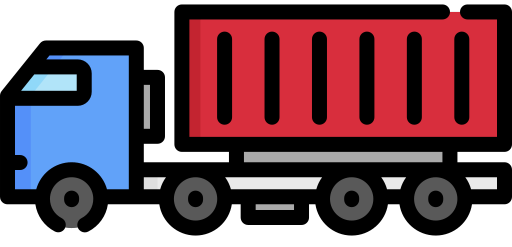
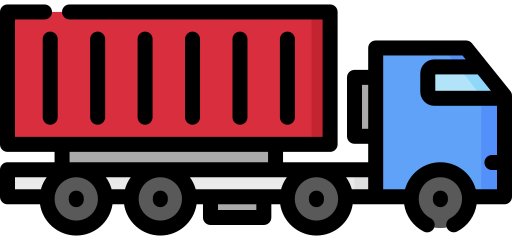
update

diff --git a/Interface Testing/Interface Testing.cpp b/Interface Testing/Interface Testing.cpp
@@ -64,27 +64,33 @@ CVEHICLE::CVEHICLE(int x, int y, int mode) {
     object.scale(0.3, 0.3);
 }
 CTRUCK::CTRUCK(int x, int y, int mode) : CVEHICLE(x, y, mode) {
-    vehicle.loadFromFile("Resource/truck.png");
+    if (x > 0) vehicle.loadFromFile("Resource/Rtruck.png");
+    else vehicle.loadFromFile("Resource/truck.png");
     object.setTexture(vehicle);
 }
 void CTRUCK::Move(bool reverse) {
     if (isStop) return;
-    srand(time(NULL));
     object.move((reverse ? -1 : 1) * (speed + 3) / 50.0, 0);
-    if (object.getPosition().x >= 1500) {
+    if (object.getPosition().x >= 1500 && !reverse) {
         object.setPosition(-350, object.getPosition().y);
+    }
+    if (object.getPosition().x <= -200 && reverse) {
+        object.setPosition(1500 + 350, object.getPosition().y);
     }
 }
 CCAR::CCAR(int x, int y, int mode) : CVEHICLE(x, y, mode) {
-    vehicle.loadFromFile("Resource/car.png");
+    if (x > 0) vehicle.loadFromFile("Resource/Rcar.png");
+    else vehicle.loadFromFile("Resource/car.png");
     object.setTexture(vehicle);
 }
 void CCAR::Move(bool reverse) {
     if (isStop) return;
-    srand(time(NULL));
-    object.move((reverse ? -1 : 1) * (speed + 5 + 3) / 50.0, 0);
-    if (object.getPosition().x >= 1500) {
+    object.move((reverse ? -1 : 1) * (speed + 3) / 50.0, 0);
+    if (object.getPosition().x >= 1500 && !reverse) {
         object.setPosition(-350, object.getPosition().y);
+    }
+    if (object.getPosition().x <= -200 && reverse) {
+        object.setPosition(1500 + 350, object.getPosition().y);
     }
 }
 
@@ -180,7 +186,9 @@ LINE::LINE(int y, int direction, int mode) : light(mode) {
         int num = mode + 3;
         CVEHICLE* car = NULL;
         while (num > 0) {
-            car = new CCAR(num*(-250), y, mode);
+            int type = rand() % 2;
+            if (type) car = new CCAR(num * (-250), y, mode);
+            else car = new CTRUCK(num * (-250), y, mode);
             list.push_back(car);
             num--;
         }
@@ -188,6 +196,16 @@ LINE::LINE(int y, int direction, int mode) : light(mode) {
         light.setPosition(WIDTH - 120, y - 30);
     }
     else {
+        list.clear();
+        int num = mode + 3;
+        CVEHICLE* car = NULL;
+        while (num > 0) {
+            int type = rand() % 2;
+            if (type) car = new CCAR(1500 + num * 250, y, mode);
+            else car = new CTRUCK(1500 + num * 250, y, mode);
+            list.push_back(car);
+            num--;
+        }
         light.setPosition(-50, y - 30);
     }
 }
@@ -217,8 +235,9 @@ void LINE::draw(sf::RenderWindow& window) {
 
 int main()
 {
+    srand(time(NULL));
     RenderWindow window(VideoMode(1500, 800), "Crossing Road Game!");
-    LINE line(50, 1, 3);
+    LINE line(50, 1, 1), line2(300, 2, 3);
     clock_t start, end;
     start = clock();
     end = clock();
@@ -231,9 +250,12 @@ int main()
             line.getLight().changeLight();
             start = clock();
         }
-
+        if ((end - start) / CLOCKS_PER_SEC >= line2.getLight().getTime()) {
+            line2.getLight().changeLight();
+            start = clock();
+        }
         line.draw(window);
-
+        line2.draw(window);
         window.display();
     }
 

diff --git a/CS202 - Project/CVEHICLE.cpp b/CS202 - Project/CVEHICLE.cpp
@@ -10,40 +10,49 @@
 using namespace std;
 using namespace sf;
 
+
 void CVEHICLE::stop() {
-	isStop = true;
+    isStop = true;
 }
 void CVEHICLE::resume() {
-	isStop = false;
+    isStop = false;
 }
 Sprite CVEHICLE::getObject() {
-	return object;
+    return object;
 }
 CVEHICLE::CVEHICLE(int x, int y, int mode) {
-	speed = (mode == 1 ? 5 : (mode == 2 ? 7 : 10));
-	isStop = 1;
-	object.setPosition(x, y);
-	object.scale(0.3, 0.3);
+    speed = (mode == 1 ? 5 : (mode == 2 ? 7 : 10));
+    isStop = 1;
+    object.setPosition(x, y);
+    object.scale(0.3, 0.3);
 }
 CTRUCK::CTRUCK(int x, int y, int mode) : CVEHICLE(x, y, mode) {
-	vehicle.loadFromFile("Resource/truck.png");
-	object.setTexture(vehicle);
-	if (object.getPosition().x >= 1500) {
-		object.setPosition(-200, object.getPosition().y);
-	}
+    if (x > 0) vehicle.loadFromFile("Resource/Rtruck.png");
+    else vehicle.loadFromFile("Resource/truck.png");
+    object.setTexture(vehicle);
 }
 void CTRUCK::Move(bool reverse) {
-	if (isStop) return;
-	object.move((reverse ? -1 : 1) * (speed / 50.0), 0);
+    if (isStop) return;
+    object.move((reverse ? -1 : 1) * (speed + 3) / 50.0, 0);
+    if (object.getPosition().x >= 1500 && !reverse) {
+        object.setPosition(-350, object.getPosition().y);
+    }
+    if (object.getPosition().x <= -200 && reverse) {
+        object.setPosition(1500 + 350, object.getPosition().y);
+    }
 }
 CCAR::CCAR(int x, int y, int mode) : CVEHICLE(x, y, mode) {
-	vehicle.loadFromFile("Resource/car.png");
-	object.setTexture(vehicle);
-	if (object.getPosition().x >= 1500) {
-		object.setPosition(-200, object.getPosition().y);
-	}
+    if (x > 0) vehicle.loadFromFile("Resource/Rcar.png");
+    else vehicle.loadFromFile("Resource/car.png");
+    object.setTexture(vehicle);
 }
 void CCAR::Move(bool reverse) {
-	if (isStop) return;
-	object.move((reverse ? -1 : 1) * ((speed + 3) / 50.0), 0);
+    if (isStop) return;
+    object.move((reverse ? -1 : 1) * (speed + 3) / 50.0, 0);
+    if (object.getPosition().x >= 1500 && !reverse) {
+        object.setPosition(-350, object.getPosition().y);
+    }
+    if (object.getPosition().x <= -200 && reverse) {
+        object.setPosition(1500 + 350, object.getPosition().y);
+    }
 }

diff --git a/CS202 - Project/CVEHICLE.h b/CS202 - Project/CVEHICLE.h
@@ -12,32 +12,32 @@ using namespace std;
 using namespace sf;
 class CVEHICLE {
 protected:
-	int speed;//step per second, or seconds needed for 1 step
-	bool isStop;
-	Sprite object;
-	Texture vehicle;
+    int speed;//step per second, or seconds needed for 1 step
+    bool isStop;
+    Sprite object;
+    Texture vehicle;
 public:
-	CVEHICLE() = delete;//default NOT available
-	CVEHICLE(int x, int y, int mode);
-	virtual void Move(bool reverse) = 0;
-	void stop();//stop when red light
-	void resume();//move again when green light
-	Sprite getObject();
+    CVEHICLE() = delete;//default NOT available
+    CVEHICLE(int x, int y, int mode);
+    virtual void Move(bool reverse) = 0;
+    void stop();//stop when red light
+    void resume();//move again when green light
+    Sprite getObject();
 };
 
 //Constructor set image for object
 
-class CTRUCK : public CVEHICLE { 
-	// image
+class CTRUCK : public CVEHICLE {
+    // image
 public:
-	CTRUCK() = delete;//default NOT available
-	CTRUCK(int x, int y, int mode);//1 2 3 -> easy medium hard
-	void Move(bool reverse);//if reverse, move right to left
+    CTRUCK() = delete;//default NOT available
+    CTRUCK(int x, int y, int mode);//1 2 3 -> easy medium hard
+    void Move(bool reverse);//if reverse, move right to left
 };
 class CCAR : public CVEHICLE {
-	// image
+    // image
 public:
-	CCAR() = delete;//default NOT available
-	CCAR(int x, int y, int mode);//1 2 3 -> easy medium hard
-	void Move(bool reverse);//if reverse, move right to left
+    CCAR() = delete;//default NOT available
+    CCAR(int x, int y, int mode);//1 2 3 -> easy medium hard
+    void Move(bool reverse);//if reverse, move right to left
 };

diff --git a/CS202 - Project/CTRAFFIC.cpp b/CS202 - Project/CTRAFFIC.cpp
@@ -60,11 +60,29 @@ LINE::LINE(int y, int direction, int mode) : light(mode) {
     this->direction = direction;
     if (direction == 1) {
         list.clear();
-        CVEHICLE* car = new CCAR(0, y, mode);
-        list.push_back(car);
+        int num = mode + 3;
+        CVEHICLE* car = NULL;
+        while (num > 0) {
+            int type = rand() % 2;
+            if (type) car = new CCAR(num * (-250), y, mode);
+            else car = new CTRUCK(num * (-250), y, mode);
+            list.push_back(car);
+            num--;
+        }
+
         light.setPosition(WIDTH - 120, y - 30);
     }
     else {
+        list.clear();
+        int num = mode + 3;
+        CVEHICLE* car = NULL;
+        while (num > 0) {
+            int type = rand() % 2;
+            if (type) car = new CCAR(1500 + num * 250, y, mode);
+            else car = new CTRUCK(1500 + num * 250, y, mode);
+            list.push_back(car);
+            num--;
+        }
         light.setPosition(-50, y - 30);
     }
 }
@@ -76,4 +94,18 @@ void LINE::stop() {
     for (auto p : list) {
         p->stop();
     }
+}
+
+void LINE::draw(sf::RenderWindow& window) {
+
+    window.draw(line);
+
+    for (auto p : list) {
+        p->resume();
+        if (this->getLight().getState() == 1) p->stop();
+        p->Move(direction == 2);
+        window.draw(p->getObject());
+    }
+
+    window.draw(this->getLight().getSpriteLight());
 }

diff --git a/CS202 - Project/CTRAFFIC.h b/CS202 - Project/CTRAFFIC.h
@@ -55,4 +55,5 @@ public:
     LIGHT& getLight();
     Sprite getSpriteLine();
     void stop();
+    void draw(sf::RenderWindow& window);
 };
